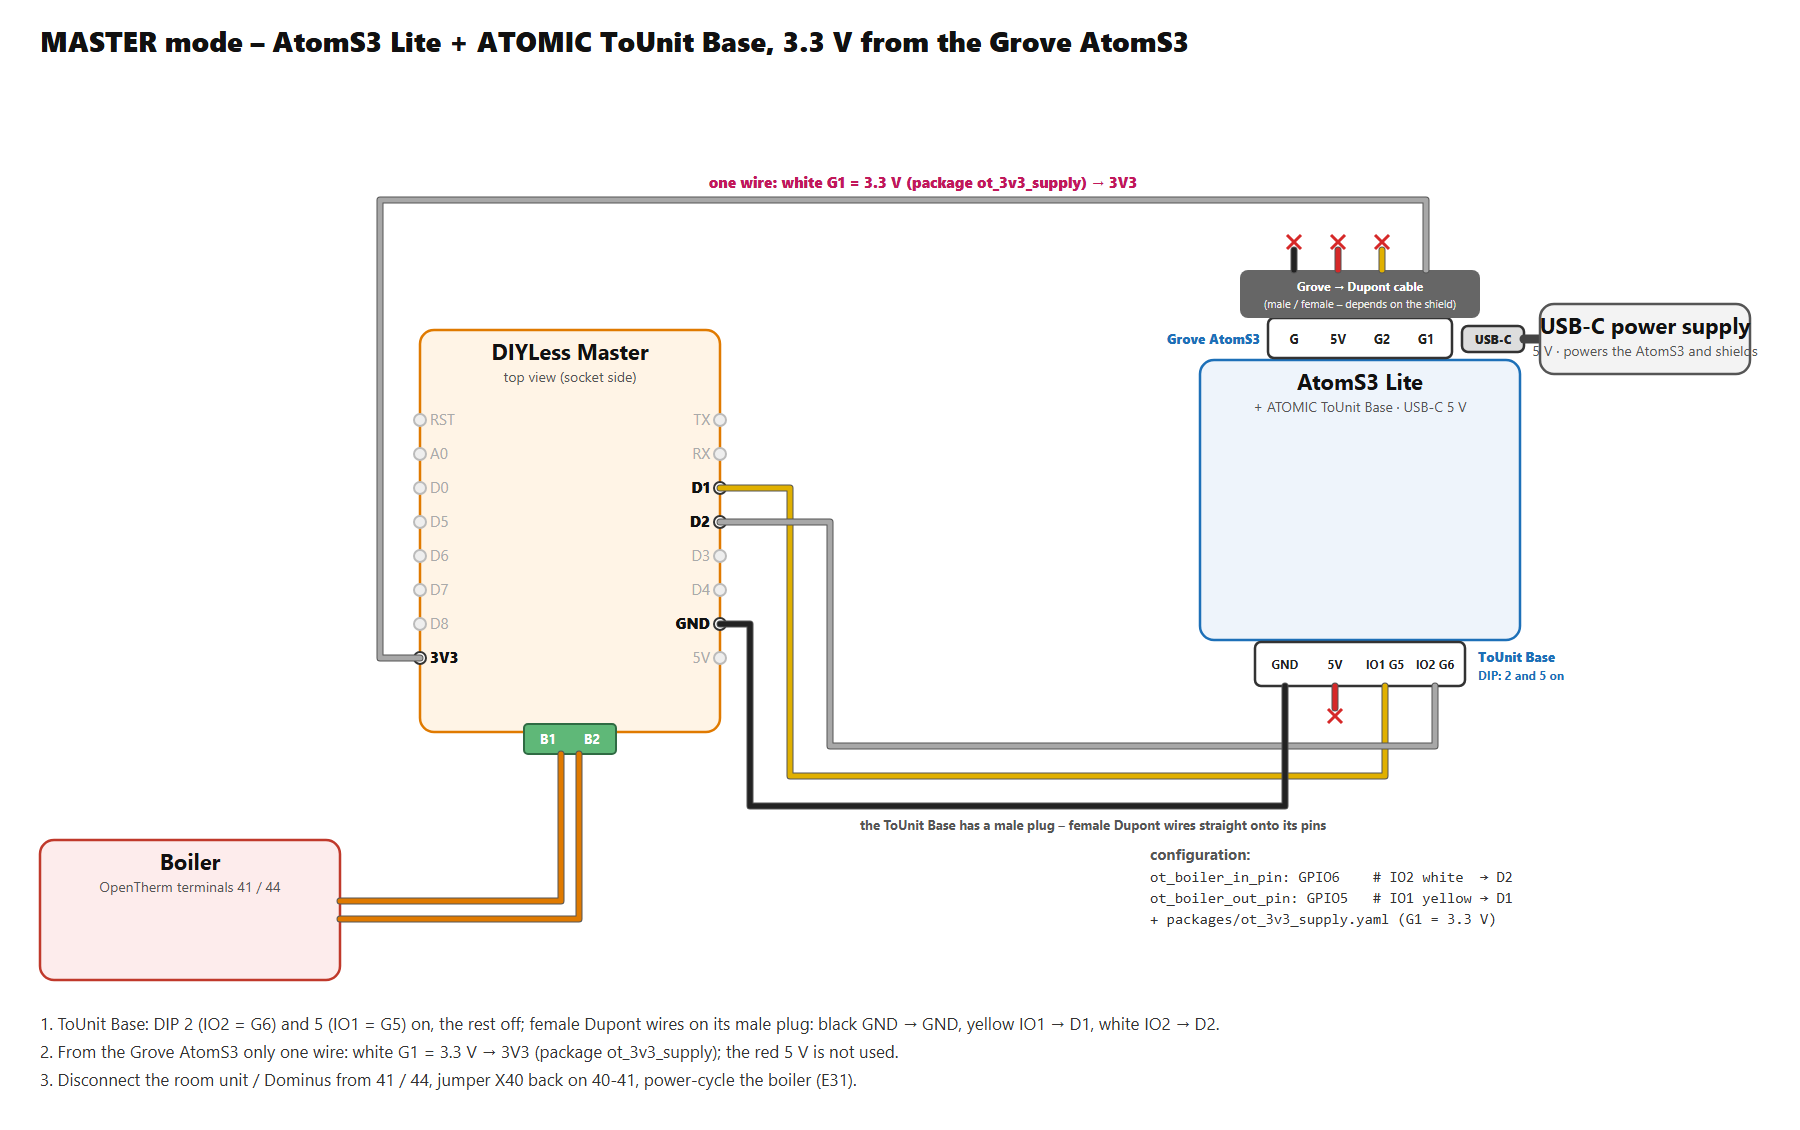
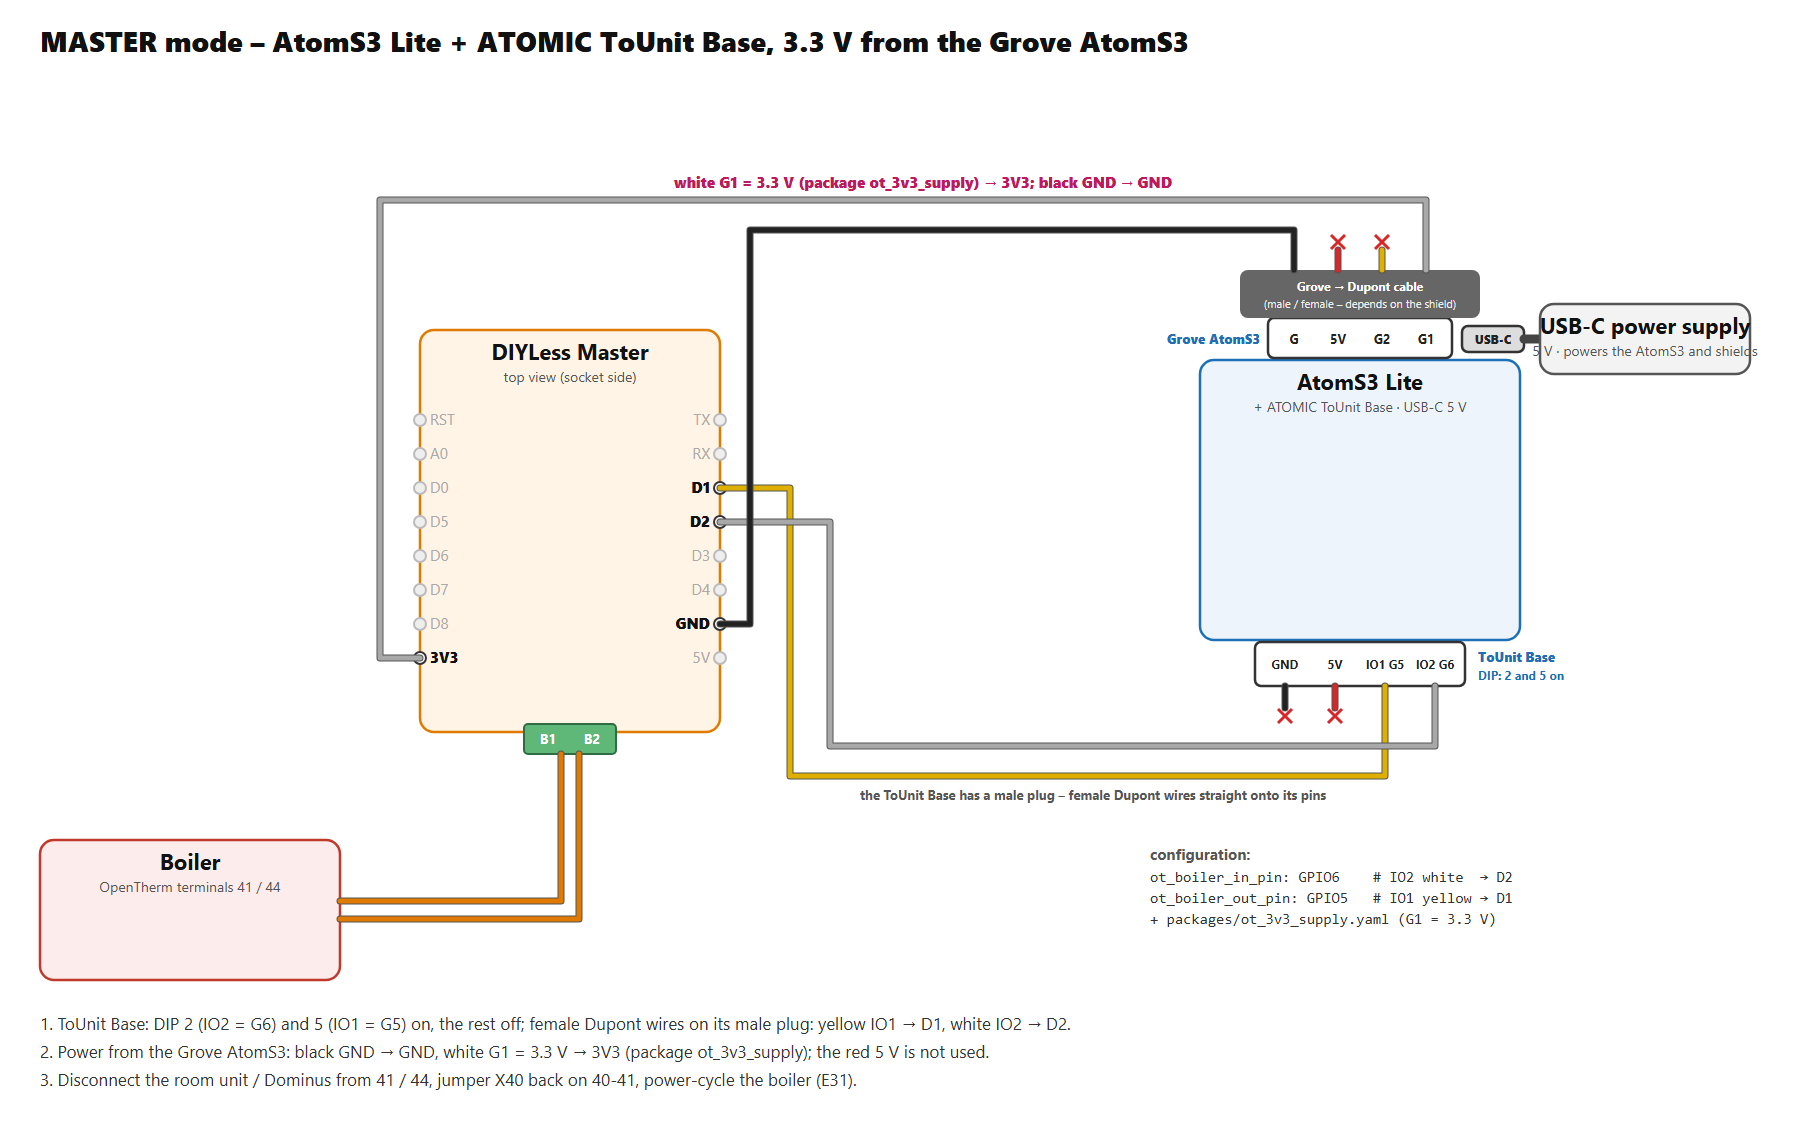
OpenTherm page: master and gateway diagrams (master: ToUnit Base signals, GND + 3.3 V from the Grove AtomS3); TRIO HYDRO page: HYBRID hardware - PortABC with port A Master, port B RS485 on F1/F2, port C Slave, G1 = 3.3 V - with the gateway + RS485 diagram, ELECTRIC and OT-thing options (EN / PL)

Changed region(s): [[0.3733, 0.1549, 0.7156, 0.7124], [0.0311, 0.8982, 0.6533, 0.9602], [0.4356, 0.6195, 0.7467, 0.7434]]

diff --git a/docs/opentherm-hub.md b/docs/opentherm-hub.md
@@ -16,8 +16,8 @@ in the middle.
 
 | | Master – the hub replaces the room unit | Gateway – the room unit stays |
 |---|---|---|
-| **Buy** | M5Stack AtomS3 Lite + **ATOMIC ToUnit Base** + **DIYLess Master OpenTherm Shield** + 3 female Dupont wires on the ToUnit plug (GND, D1, D2) + 1 Grove → Dupont cable (only white G1 = 3.3 V) | AtomS3 Lite + **ATOMIC PortABC** + **DIYLess Master** + **DIYLess Slave OpenTherm Shield** + 3 Grove → Dupont cables |
-| **Connect** | ToUnit Base → GND, D1, D2 of the Master shield (DIP 2 and 5 on); white G1 of the Grove AtomS3 → 3V3; Master shield → boiler OpenTherm terminals (**41 / 44** on most Immergas boilers) | PortABC port A → Master: GND, D1, D2; port C → Slave: GND, 5V, D6, D7 (port B free for RS485); white G1 of the Grove AtomS3 → 3V3 of both; room unit wires → Slave shield, Master shield → boiler 41 / 44 |
+| **Buy** | M5Stack AtomS3 Lite + **ATOMIC ToUnit Base** + **DIYLess Master OpenTherm Shield** + 2 female Dupont wires on the ToUnit plug (D1, D2) + 1 Grove → Dupont cable (black GND, white G1 = 3.3 V) | AtomS3 Lite + **ATOMIC PortABC** + **DIYLess Master** + **DIYLess Slave OpenTherm Shield** + 3 Grove → Dupont cables |
+| **Connect** | ToUnit Base → D1 / D2 of the Master shield (DIP 2 and 5 on); Grove AtomS3 → black GND, white G1 = 3.3 V → 3V3; Master shield → boiler OpenTherm terminals (**41 / 44** on most Immergas boilers) | PortABC port A → Master: GND, D1, D2; port C → Slave: GND, 5V, D6, D7 (port B free for RS485); white G1 of the Grove AtomS3 → 3V3 of both; room unit wires → Slave shield, Master shield → boiler 41 / 44 |
 | **Flash** | [`examples/immergas-opentherm.yaml`](../examples/immergas-opentherm.yaml) as it is | the same file, uncomment `ot_gateway`, the room pins and set the master pins to port A |
 | **On the boiler** | remove the CAR V2, jumper X40 back on 40-41, power-cycle (E31) | nothing to change |
 
@@ -51,10 +51,11 @@ How it goes together:
   DIP switches **2** (IO2 = G6, white) and **5** (IO1 = G5, yellow) on, the rest off. These are the default pins.
 - **Gateway (the room unit stays) – with an ATOMIC PortABC instead:** **port A** = Master shield (G39 / G38),
   **port C** = Slave shield (G6 / G5), **port B** stays free for an RS485 bus (G8 / G7).
-- **In both cases the Grove AtomS3** (the AtomS3 Lite's own socket next to USB-C) **gives only the 3.3 V**: one more
-  Grove → Dupont cable, of which only the white **G1 = 3.3 V** wire goes to the 3V3 pin of every shield (package
-  `ot_3v3_supply`). Everything else comes from the ToUnit Base / PortABC: GND and the signals, and on the Slave shield
-  also 5 V (port C). Everything plugs in – no soldering, no wires on the side pins of the Atom.
+- **The Grove AtomS3** (the AtomS3 Lite's own socket next to USB-C) **gives the 3.3 V**: one more Grove → Dupont
+  cable, its white **G1 = 3.3 V** wire to the 3V3 pin of every shield (package `ot_3v3_supply`). With the master alone
+  its black wire is the shield's **GND** as well, and the ToUnit Base carries only the two signals. In the gateway GND
+  and the signals come from ports A / C, and the Slave's 5 V from port C. Everything plugs in – no soldering, no wires
+  on the side pins of the Atom.
 - **DIYLess only: the shields stacked on a WeMos D1 mini ESP32** – not the ESP8266 D1 mini, the hub needs an ESP32 (or
   the [DIYLess ESP OpenTherm Gateway](https://diyless.com/product/esp8266-opentherm-gateway) kit). No wires at all;
   change the board and the pins in the configuration (see [Installation](#installation), step 4).
@@ -101,7 +102,7 @@ from the ESP32: the boiler's answer comes **in**, the hub's frames go **out**.
 
 | Grove wire | Master alone: ToUnit Base → Master shield | Gateway: port A → Master shield | Gateway: port C → Slave shield |
 |---|---|---|---|
-| black – GND | **GND** (ToUnit Base) | **GND** (port A) | **GND** (port C) |
+| black – GND | **GND** ← black of the Grove AtomS3 (the ToUnit black stays free) | **GND** (port A) | **GND** (port C) |
 | red – 5 V | not connected (the Master shield's 5V pin is free) | not connected | **5V** (port C) |
 | Grove AtomS3 cable: white G1 = 3.3 V (`ot_3v3_supply`) | **3V3** | **3V3** | **3V3** |
 | white – signal to the ESP32 | **D2** · IO2 = G6 · `ot_boiler_in_pin: GPIO6` | **D2** · `ot_boiler_in_pin: GPIO39` | **D6** · `ot_room_in_pin: GPIO6` |
@@ -139,8 +140,7 @@ With the PortABC the OpenTherm shields use ports A and C, so **port B** stays fr
 e.g. Samsung NASA F1/F2 (TRIO HYDRO) or a Modbus BMS next to the OpenTherm boiler. Set that bus's
 `*_uart_rx_pin: GPIO8` / `*_uart_tx_pin: GPIO7` (the `gb_` / `mt_` packages default to G6 / G5 = port C, the Slave
 shield). With the master alone (ToUnit Base) there is no free Grove port left, so an RS485 bus needs the PortABC (port B).
-
-![OpenTherm gateway and an RS485 bus on one AtomS3 Lite with the PortABC](images/en/ot-wiring-abc-gateway-modbus.png)
+The full wiring of this combination (gateway + RS485 on F1/F2) is on the [TRIO HYDRO](trio-hydro.md#hardware-planned) page.
 
 ## Installation
 

diff --git a/docs/opentherm-hub.pl.md b/docs/opentherm-hub.pl.md
@@ -17,8 +17,8 @@ stanąć pośrodku.
 
 | | Master – hub zastępuje pilota | Bramka – pilot zostaje |
 |---|---|---|
-| **Kup** | M5Stack AtomS3 Lite + **ATOMIC ToUnit Base** + **DIYLess Master OpenTherm Shield** + 3 żeńskie przewody Dupont na wtyk ToUnit (GND, D1, D2) + 1 kabel Grove → Dupont (tylko biały G1 = 3,3 V) | AtomS3 Lite + **ATOMIC PortABC** + **DIYLess Master** + **DIYLess Slave OpenTherm Shield** + 3 kable Grove → Dupont |
-| **Podłącz** | ToUnit Base → GND, D1, D2 płytki Master (DIP 2 i 5 ON); biały G1 gniazda Grove AtomS3 → 3V3; płytka Master → zaciski OpenTherm kotła (**41 / 44** w większości kotłów Immergas) | port A PortABC → Master: GND, D1, D2; port C → Slave: GND, 5V, D6, D7 (port B wolny na RS485); biały G1 gniazda Grove AtomS3 → 3V3 obu płytek; przewody pilota → płytka Slave, płytka Master → kocioł 41 / 44 |
+| **Kup** | M5Stack AtomS3 Lite + **ATOMIC ToUnit Base** + **DIYLess Master OpenTherm Shield** + 2 żeńskie przewody Dupont na wtyk ToUnit (D1, D2) + 1 kabel Grove → Dupont (czarny GND, biały G1 = 3,3 V) | AtomS3 Lite + **ATOMIC PortABC** + **DIYLess Master** + **DIYLess Slave OpenTherm Shield** + 3 kable Grove → Dupont |
+| **Podłącz** | ToUnit Base → D1 / D2 płytki Master (DIP 2 i 5 ON); gniazdo Grove AtomS3 → czarny GND, biały G1 = 3,3 V → 3V3; płytka Master → zaciski OpenTherm kotła (**41 / 44** w większości kotłów Immergas) | port A PortABC → Master: GND, D1, D2; port C → Slave: GND, 5V, D6, D7 (port B wolny na RS485); biały G1 gniazda Grove AtomS3 → 3V3 obu płytek; przewody pilota → płytka Slave, płytka Master → kocioł 41 / 44 |
 | **Wgraj** | [`examples/immergas-opentherm.yaml`](../examples/immergas-opentherm.yaml) bez zmian | ten sam plik, odkomentuj `ot_gateway`, piny pilota i ustaw piny mastera na port A |
 | **Na kotle** | zdejmij CAR V2, zworka X40 z powrotem na 40-41, wyłącz i włącz zasilanie (E31) | nic nie zmieniasz |
 
@@ -52,10 +52,11 @@ Jak to się składa:
   **2** (IO2 = G6, biały) i **5** (IO1 = G5, żółty) ON, reszta OFF. To domyślne piny.
 - **Bramka (pilot zostaje) – zamiast niej ATOMIC PortABC:** **port A** = płytka Master (G39 / G38), **port C** =
   płytka Slave (G6 / G5), **port B** zostaje wolny na magistralę RS485 (G8 / G7).
-- **W obu przypadkach gniazdo Grove AtomS3** (własne gniazdo AtomS3 Lite przy USB-C) **daje tylko 3,3 V**: jeszcze
-  jeden kabel Grove → Dupont, z którego tylko biała żyła **G1 = 3,3 V** idzie do pinu 3V3 każdej płytki (pakiet
-  `ot_3v3_supply`). Resztę dają ToUnit Base / PortABC: GND i sygnały, a płytce Slave także 5 V (port C). Wszystko się
-  wpina – bez lutowania i bez przewodów na bocznych pinach Atoma.
+- **Gniazdo Grove AtomS3** (własne gniazdo AtomS3 Lite przy USB-C) **daje 3,3 V**: jeszcze jeden kabel Grove →
+  Dupont, jego biała żyła **G1 = 3,3 V** idzie do pinu 3V3 każdej płytki (pakiet `ot_3v3_supply`). Przy samym masterze
+  jego czarna żyła to także **GND** płytki, a ToUnit Base przenosi tylko dwa sygnały. W bramce GND i sygnały dają
+  porty A / C, a 5 V płytki Slave port C. Wszystko się wpina – bez lutowania i bez przewodów na bocznych pinach
+  Atoma.
 - **Tylko DIYLess: płytki nałożone na WeMos D1 mini ESP32** – nie zwykły D1 mini z ESP8266, hub wymaga ESP32 (albo
   zestaw [DIYLess ESP OpenTherm Gateway](https://diyless.com/product/esp8266-opentherm-gateway)). Bez przewodów;
   w konfiguracji zmieniasz płytkę i piny (zobacz [Instalacja](#instalacja), krok 4).
@@ -102,7 +103,7 @@ ESP32: odpowiedź kotła przychodzi **na wejście**, ramki huba idą **wyjściem
 
 | Przewód Grove | Sam master: ToUnit Base → płytka Master | Bramka: port A → płytka Master | Bramka: port C → płytka Slave |
 |---|---|---|---|
-| czarny – GND | **GND** (ToUnit Base) | **GND** (port A) | **GND** (port C) |
+| czarny – GND | **GND** ← czarny gniazda Grove AtomS3 (czarny z ToUnit wolny) | **GND** (port A) | **GND** (port C) |
 | czerwony – 5 V | nie podłączać (pin 5V płytki Master jest wolny) | nie podłączać | **5V** (port C) |
 | kabel Grove AtomS3: biały G1 = 3,3 V (`ot_3v3_supply`) | **3V3** | **3V3** | **3V3** |
 | biały – sygnał do ESP32 | **D2** · IO2 = G6 · `ot_boiler_in_pin: GPIO6` | **D2** · `ot_boiler_in_pin: GPIO39` | **D6** · `ot_room_in_pin: GPIO6` |
@@ -138,8 +139,7 @@ Z PortABC płytki OpenTherm zajmują porty A i C, więc **port B** zostaje wolny
 np. Samsung NASA F1/F2 (TRIO HYDRO) albo Modbus BMS obok kotła OpenTherm. Ustaw tej magistrali
 `*_uart_rx_pin: GPIO8` / `*_uart_tx_pin: GPIO7` (pakiety `gb_` / `mt_` mają domyślnie G6 / G5 = port C, płytka
 Slave). Przy samym masterze (ToUnit Base) nie zostaje wolne gniazdo Grove, więc magistrala RS485 wymaga PortABC (port B).
-
-![Bramka OpenTherm i magistrala RS485 na jednym AtomS3 Lite z PortABC](images/ot-wiring-abc-gateway-modbus.png)
+Pełny schemat tego połączenia (bramka + RS485 na F1/F2) jest na stronie [TRIO HYDRO](trio-hydro.pl.md#sprzęt-planowany).
 
 ## Instalacja
 

diff --git a/docs/trio-hydro.md b/docs/trio-hydro.md
@@ -30,12 +30,30 @@ give no register map or terminals for the BMS option, so it stays open.
 
 ## Hardware (planned)
 
-| Part | |
+**HYBRID** – one AtomS3 Lite with an ATOMIC PortABC: the OpenTherm gateway between the indoor unit and the boiler plus
+the Samsung F1/F2 bus.
+
+| Part | Where |
 |---|---|
-| [M5Stack AtomS3 Lite](https://docs.m5stack.com/en/core/AtomS3%20Lite) | ESP32-S3 – one board for all buses, no ATOMIC PortABC needed |
-| 1× M5Stack Isolated RS485 Unit | F1 / F2, in the AtomS3 Lite Grove port (RX GPIO1, TX GPIO2) |
-| HYBRID: OpenTherm master + slave adapter | gateway – master on G6 / G5 to the boiler, slave on G8 / G7 to the indoor unit |
-| optional: a second RS485 unit | the zone bus (Modbus 9600 8E1), only after the first logs |
+| [M5Stack AtomS3 Lite](https://docs.m5stack.com/en/core/AtomS3%20Lite) + USB-C 5 V power supply | – |
+| [M5Stack ATOMIC PortABC](https://shop.m5stack.com/products/atomic-portabc-extension-base) | under the AtomS3 Lite |
+| [DIYLess Master OpenTherm Shield](https://diyless.com/product/master-opentherm-shield) | **port A** (G39 / G38) → boiler VICTRIX TERA, terminals 41 / 44 |
+| [DIYLess Slave OpenTherm Shield](https://diyless.com/product/slave-opentherm-shield) | **port C** (G6 / G5, + 5 V) → the indoor unit's OpenTherm output (the wires that went to the boiler) |
+| M5Stack Isolated RS485 Unit | **port B** (RX G8, TX G7) → F1 / F2, listening in parallel |
+| Grove → Dupont cable in the **Grove AtomS3** socket (next to USB-C) | only the white **G1 = 3.3 V** wire → 3V3 of both shields (package `ot_3v3_supply`) |
+
+![TRIO HYDRO HYBRID: OpenTherm gateway and F1/F2 on one AtomS3 Lite with the PortABC](images/en/ot-wiring-abc-gateway-modbus.png)
+
+In the diagram the *room unit* is the TRIO HYDRO indoor unit: it is the OpenTherm master towards the boiler, the hub
+sits between them. The indoor unit has its own mains supply, so the Slave shield does not have to power it. Shields,
+pins and the 3.3 V supply: [OpenTherm boilers](opentherm-hub.md#hardware).
+
+**ELECTRIC** (no boiler) – only F1/F2: an AtomS3 Lite with the RS485 unit in its Grove AtomS3 socket (RX G1, TX G2),
+no PortABC, no OpenTherm.
+
+**Without soldering, as two devices:** the ready-made [OT-thing](https://www.seegel-systeme.de/produkt/ot-thing/)
+gateway (OpenTherm master + slave in a box, ESP32-C3) for the boiler side and an AtomS3 Lite with the RS485 unit for
+F1/F2 – a configuration for the OT-thing is not prepared yet.
 
 ## What a tester would do
 

diff --git a/docs/trio-hydro.pl.md b/docs/trio-hydro.pl.md
@@ -30,12 +30,30 @@ podają mapy rejestrów ani zacisków dla opcji BMS, więc ta droga zostaje otwa
 
 ## Sprzęt (planowany)
 
-| Element | |
+**HYBRID** – jeden AtomS3 Lite z ATOMIC PortABC: bramka OpenTherm między jednostką wewnętrzną a kotłem oraz magistrala
+Samsung F1/F2.
+
+| Element | Gdzie |
 |---|---|
-| [M5Stack AtomS3 Lite](https://docs.m5stack.com/en/core/AtomS3%20Lite) | ESP32-S3 – jedna płytka na wszystkie magistrale, ATOMIC PortABC niepotrzebny |
-| 1× M5Stack Isolated RS485 Unit | F1 / F2, w gnieździe Grove AtomS3 Lite (RX GPIO1, TX GPIO2) |
-| HYBRID: adapter OpenTherm master + slave | bramka – master na G6 / G5 do kotła, slave na G8 / G7 do jednostki wewnętrznej |
-| opcjonalnie: drugi moduł RS485 | magistrala strefowa (Modbus 9600 8E1), dopiero po pierwszych logach |
+| [M5Stack AtomS3 Lite](https://docs.m5stack.com/en/core/AtomS3%20Lite) + zasilacz USB-C 5 V | – |
+| [M5Stack ATOMIC PortABC](https://shop.m5stack.com/products/atomic-portabc-extension-base) | pod AtomS3 Lite |
+| [DIYLess Master OpenTherm Shield](https://diyless.com/product/master-opentherm-shield) | **port A** (G39 / G38) → kocioł VICTRIX TERA, zaciski 41 / 44 |
+| [DIYLess Slave OpenTherm Shield](https://diyless.com/product/slave-opentherm-shield) | **port C** (G6 / G5, + 5 V) → wyjście OpenTherm jednostki wewnętrznej (przewody, które szły do kotła) |
+| M5Stack Isolated RS485 Unit | **port B** (RX G8, TX G7) → F1 / F2, nasłuch równolegle |
+| kabel Grove → Dupont w gnieździe **Grove AtomS3** (przy USB-C) | tylko biała żyła **G1 = 3,3 V** → 3V3 obu płytek (pakiet `ot_3v3_supply`) |
+
+![TRIO HYDRO HYBRID: bramka OpenTherm i F1/F2 na jednym AtomS3 Lite z PortABC](images/ot-wiring-abc-gateway-modbus.png)
+
+Na schemacie *pilot* to jednostka wewnętrzna TRIO HYDRO: to ona jest masterem OpenTherm wobec kotła, hub siedzi
+pośrodku. Jednostka wewnętrzna ma własne zasilanie z sieci, więc płytka Slave nie musi jej zasilać. Płytki, piny
+i zasilanie 3,3 V: [Kotły OpenTherm](opentherm-hub.pl.md#sprzęt).
+
+**ELECTRIC** (bez kotła) – tylko F1/F2: AtomS3 Lite z modułem RS485 w gnieździe Grove AtomS3 (RX G1, TX G2), bez
+PortABC i bez OpenTherm.
+
+**Bez lutowania, jako dwa urządzenia:** gotowa bramka [OT-thing](https://www.seegel-systeme.de/produkt/ot-thing/)
+(master + slave OpenTherm w obudowie, ESP32-C3) od strony kotła i AtomS3 Lite z modułem RS485 do F1/F2 – konfiguracji
+dla OT-thing jeszcze nie ma.
 
 ## Co zrobiłby tester
 
